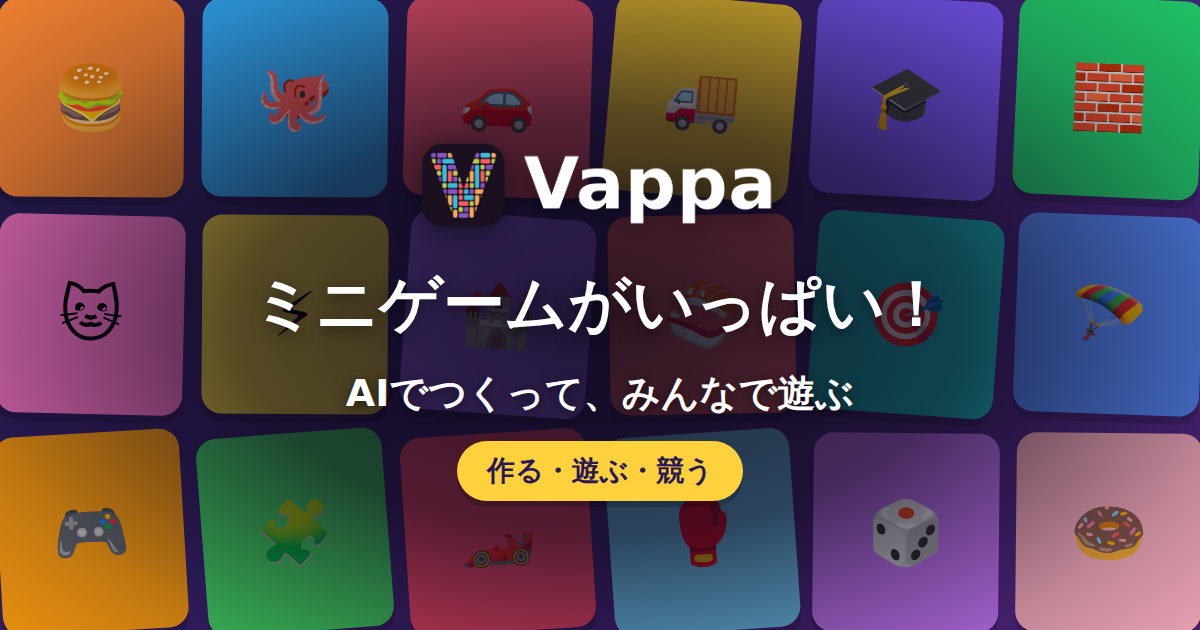
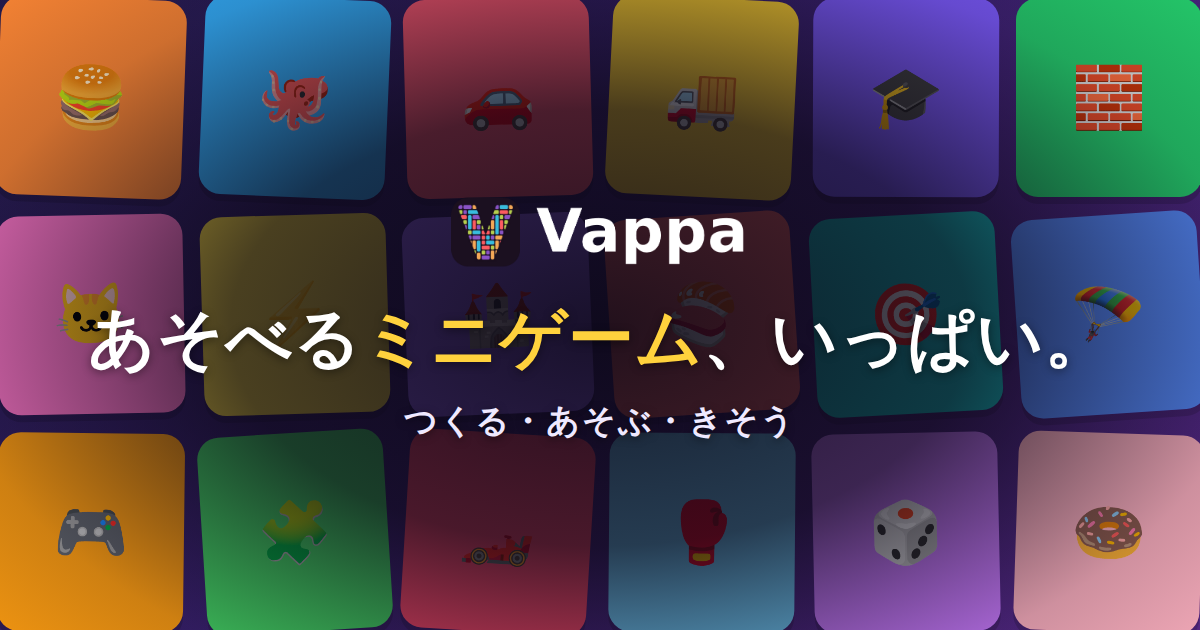
v0.9.30: ダブルタップで固まる修正＋OG文字を実フォント(Meiryo系)に
- 固まり修正: 新規作成/サムネ切り抜きモーダルが背景タップで閉じず、開くと
  タブバーも覆って操作不能になっていた → 背景タップで閉じるように。
  createProject に二重作成ガードも追加（Playwrightで再現・修正確認）。
- OGバナーの文字を AIっぽい既定フォントから BIZ UDPGothic（Meiryo系の
  クリーンな実フォント）に変更。og:image ?v=3 / 共有リンク ?v=4 に更新。

Claude-Session: https://claude.ai/code/session_019njiWowLagqtESexpHW95A

diff --git a/arcade/index.html b/arcade/index.html
@@ -16,7 +16,7 @@
 <meta property="og:type" content="website" />
 <meta property="og:title" content="Vappa" />
 <meta property="og:description" content="AIでミニゲームを作って遊べる Vappa" />
-<meta property="og:image" content="https://taisei-1022.github.io/test/arcade/og.png?v=2" />
+<meta property="og:image" content="https://taisei-1022.github.io/test/arcade/og.png?v=3" />
 <meta property="og:image:width" content="1200" />
 <meta property="og:image:height" content="630" />
 <meta name="twitter:card" content="summary_large_image" />
@@ -201,7 +201,7 @@
 <script src="js/store.js?v=5"></script>
 <script src="js/ai.js?v=12"></script>
 <script src="js/catalog.js?v=9"></script>
-<script src="js/share.js?v=4"></script>
+<script src="js/share.js?v=5"></script>
 <script src="js/arcade-embed.js?v=3"></script>
 <script src="js/pwa.js?v=1"></script>
 <script src="js/sw-reg.js?v=2"></script>
@@ -209,7 +209,7 @@
 (function () {
   "use strict";
   // デプロイ反映の確認用バージョン（更新のたびに数字を上げる）
-  var APP_VERSION = "0.9.29";
+  var APP_VERSION = "0.9.30";
   try { document.getElementById("ver").textContent = "v" + APP_VERSION; } catch(e){}
   // ホームから起動（standalone）時だけホームバー用の余白を付ける（ブラウザでは隙間になるため）
   if((window.matchMedia&&matchMedia("(display-mode: standalone)").matches)||navigator.standalone===true)
@@ -503,7 +503,10 @@
   var newprojModal=document.getElementById("newproj"), newprojName=document.getElementById("newprojName");
   function openNewProj(){ newprojName.value=""; newprojModal.hidden=false; setTimeout(function(){ try{newprojName.focus();}catch(e){} },60); }
   function closeNewProj(){ newprojModal.hidden=true; }
+  var creatingProject=false;
   function createProject(name){
+    if(creatingProject) return;          // ダブルタップで二重作成しない
+    creatingProject=true; setTimeout(function(){ creatingProject=false; }, 1200);
     var title=(name||"").trim()||"無題のゲーム";
     closeNewProj();
     autosaveDraft();   // 直前に編集中があれば保存
@@ -522,6 +525,8 @@
   }
   document.getElementById("newBtn").addEventListener("click", openNewProj);
   document.getElementById("newprojCancel").addEventListener("click", closeNewProj);
+  // 背景（モーダル外）タップで閉じる＝うっかり開いても固まらない
+  newprojModal.addEventListener("click", function(e){ if(e.target===newprojModal) closeNewProj(); });
   document.getElementById("newprojOk").addEventListener("click", function(){ createProject(newprojName.value); });
   newprojName.addEventListener("keydown", function(e){ if(e.key==="Enter"){ e.preventDefault(); createProject(newprojName.value); } });
   // 戻る系はすべて history.back() に統一（スワイプ戻ると同じ挙動に）
@@ -656,6 +661,7 @@
   cropView.addEventListener("pointercancel", endPtr);
   function closeCrop(){ cropModal.hidden=true; cropImg.removeAttribute("src"); ptrs={}; panning=false; }
   document.getElementById("cropCancel").addEventListener("click", closeCrop);
+  cropModal.addEventListener("click", function(e){ if(e.target===cropModal) closeCrop(); });
   document.getElementById("cropOk").addEventListener("click", function(){
     if(!lastGen){ closeCrop(); return; }
     var Vw=cropView.clientWidth, Vh=cropView.clientHeight, s=cBase*cZoom;

diff --git a/arcade/sw.js b/arcade/sw.js
@@ -4,13 +4,13 @@
    - 新バージョンはユーザーが「更新」を押すまで待機（勝手にリロードしない） */
 // CACHE 名はアプリのバージョンに紐づける（＝毎デプロイで sw.js が変わり、更新が必ず検知される）。
 // APP_VERSION を上げるたびにここも上げること。
-var CACHE = "vappa-0.9.29";
+var CACHE = "vappa-0.9.30";
 var CORE = [
   "./", "./index.html", "./play.html", "./leaderboard.html",
   "./manifest.webmanifest", "./logo.png?v=1",
   "./css/app.css?v=27",
   "./js/games.js?v=5", "./js/assets.js?v=1", "./js/config.js?v=4", "./js/store.js?v=5",
-  "./js/ai.js?v=12", "./js/catalog.js?v=9", "./js/share.js?v=4", "./js/arcade-embed.js?v=3", "./js/pwa.js?v=1"
+  "./js/ai.js?v=12", "./js/catalog.js?v=9", "./js/share.js?v=5", "./js/arcade-embed.js?v=3", "./js/pwa.js?v=1"
 ];
 
 self.addEventListener("install", function (e) {

diff --git a/arcade/play.html b/arcade/play.html
@@ -10,7 +10,7 @@
 <meta property="og:type" content="website" />
 <meta property="og:title" content="Vappa" />
 <meta property="og:description" content="AIでミニゲームを作って遊べる Vappa" />
-<meta property="og:image" content="https://taisei-1022.github.io/test/arcade/og.png?v=2" />
+<meta property="og:image" content="https://taisei-1022.github.io/test/arcade/og.png?v=3" />
 <meta property="og:image:width" content="1200" />
 <meta property="og:image:height" content="630" />
 <meta name="twitter:card" content="summary_large_image" />
@@ -32,7 +32,7 @@
 <script src="js/config.js?v=4"></script>
 <script src="js/store.js?v=5"></script>
 <script src="js/catalog.js?v=9"></script>
-<script src="js/share.js?v=4"></script>
+<script src="js/share.js?v=5"></script>
 <script src="js/sw-reg.js?v=2"></script>
 <script src="js/arcade-embed.js?v=3"></script>
 <script>

diff --git a/arcade/js/share.js b/arcade/js/share.js
@@ -10,7 +10,7 @@ window.Share = (function () {
   function baseDir() { return location.origin + location.pathname.replace(/[^/]*$/, ""); }
   // 共有リンクのバージョン。OG画像を変えてもLINE等はページURL単位でプレビューを
   // キャッシュするため、ここを上げてURLを変える＝再取得させてサムネを更新する。
-  var SHARE_V = "3";
+  var SHARE_V = "4";
   function appUrl() { return baseDir() + "?v=" + SHARE_V; }
   function gameUrl(id) { return baseDir() + "play.html?game=" + encodeURIComponent(id) + "&v=" + SHARE_V; }
 

diff --git a/arcade/leaderboard.html b/arcade/leaderboard.html
@@ -26,7 +26,7 @@
 <script src="js/config.js?v=4"></script>
 <script src="js/store.js?v=5"></script>
 <script src="js/catalog.js?v=9"></script>
-<script src="js/share.js?v=4"></script>
+<script src="js/share.js?v=5"></script>
 <script src="js/sw-reg.js?v=2"></script>
 <script>
 (function () {
